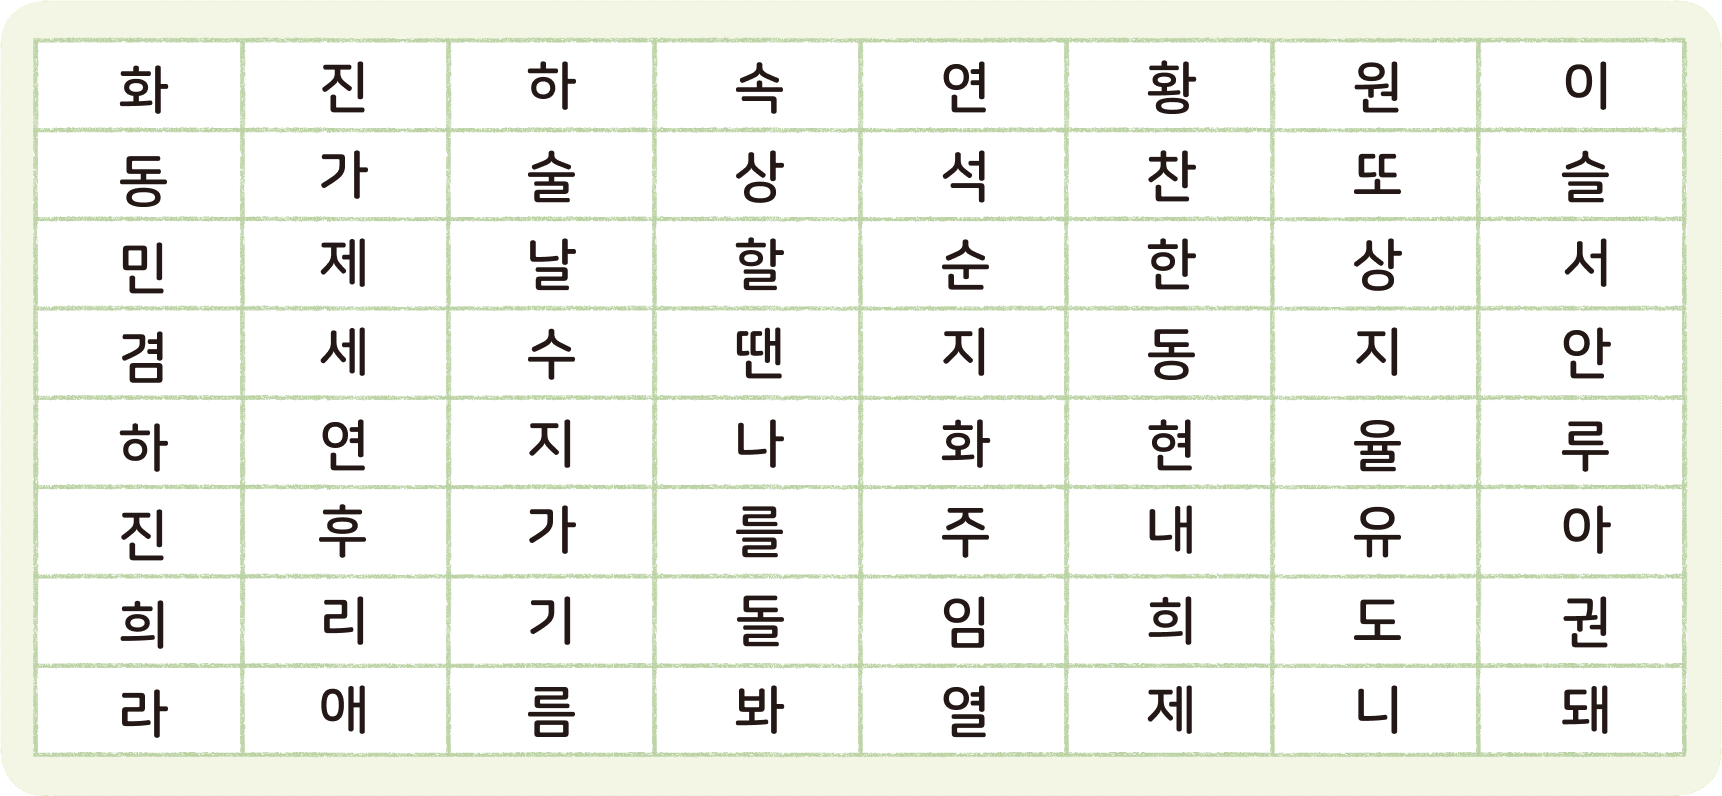
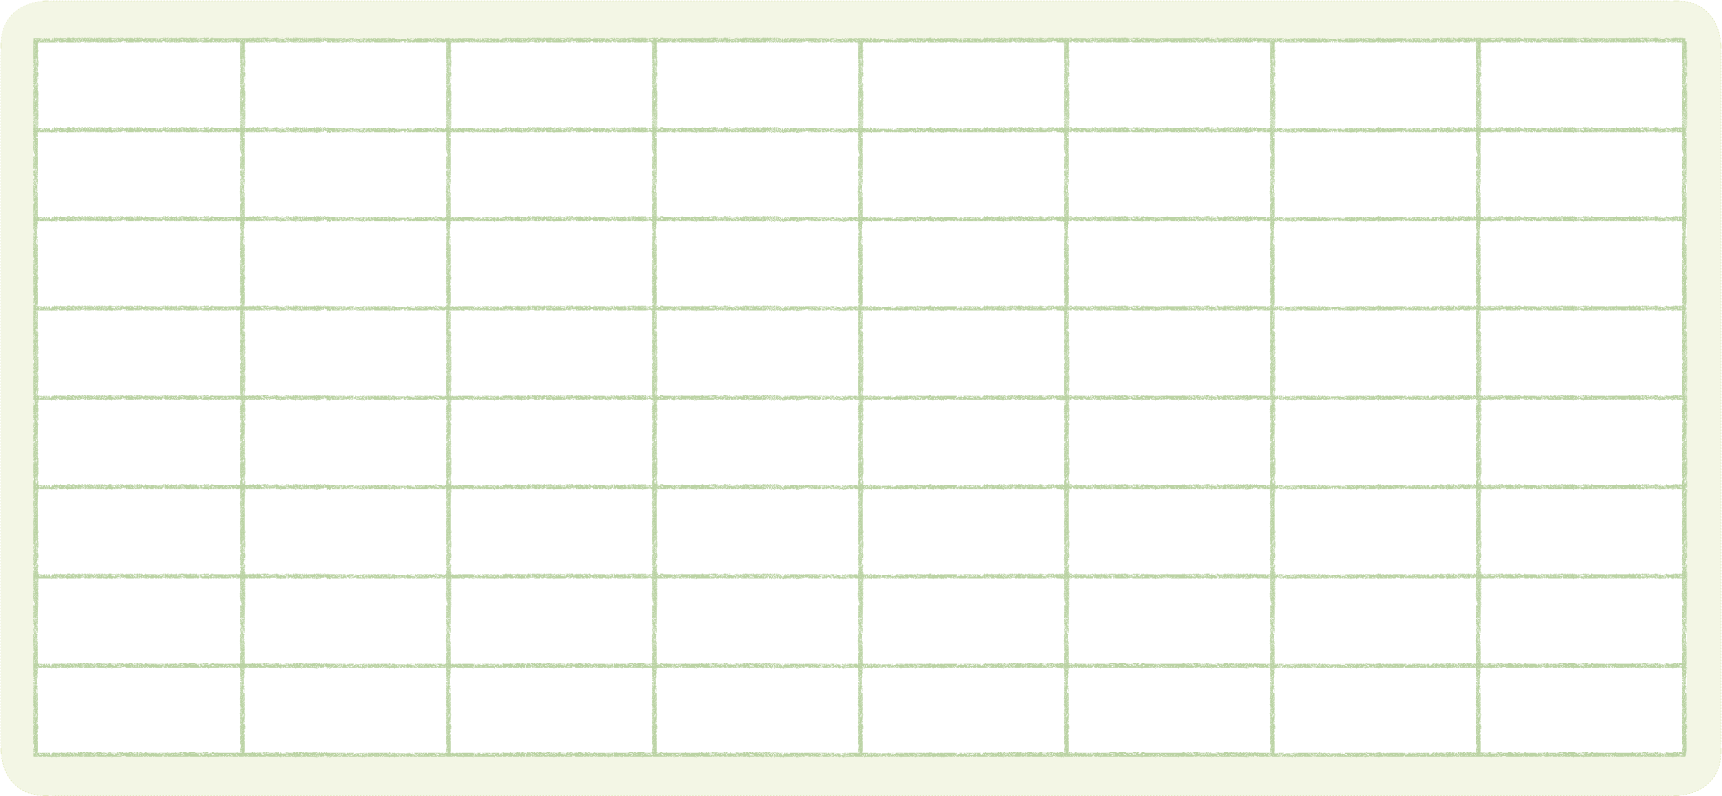
fix: 단어 드레그 수정

diff --git a/contents/html/popup-view/1-3-2/64-2/index.html b/contents/html/popup-view/1-3-2/64-2/index.html
@@ -51,7 +51,7 @@
 		}
 
 		#drawingSvg path {
-			stroke:transparent;
+			/*stroke: transparent;*/
 			stroke-width: 8;
 			stroke-linecap: round;
 			stroke-linejoin: round;
@@ -59,11 +59,73 @@
 			opacity: 0.6;
 		}
 
-		#answerArea,
-		#answerArea2,
-		#answerArea3 {
+		.answerArea {
 			display: none;
 		}
+
+		.list {
+			position: relative;
+			background-color: transparent;
+			border-collapse: revert;
+			padding: 40px 30px 30px;
+
+
+		}
+
+		.list li {
+			padding: 10px;
+			text-align: center;
+			background: none;
+			border: none;
+			width: 100%;
+			display: flex;
+		}
+
+		.list li div {
+			flex: 1;
+			height: 69px;
+		}
+
+		.list li span {
+			position: relative;
+			font-size: 56px;
+			font-weight: 700;
+			display: flex;
+			align-items: center;
+			text-align: center;
+			width: 100%;
+			z-index: 1;
+			border-radius: 80px;
+			width: 80px;
+			height: 80px;
+			margin: 0 auto;
+			cursor: pointer;
+		}
+
+		.list .text.on span {
+			cursor: pointer;
+			z-index: 10;
+		}
+/*
+		.list [data-id="1"].on span {
+			background-color: rgba(202, 232, 250, 0.5);
+		}
+
+		.list [data-id="2"].on span {
+			background-color: rgba(244, 209, 232, 0.5);
+		}
+
+		.list [data-id="3"].on span {
+			background-color: rgba(208, 209, 254, 0.5)
+		}
+
+		.list [data-id="1,3"].on span {
+			background-color: rgba(208, 209, 254, 0.5)
+		}
+
+		.list [data-id="2,3"].on span {
+			background-color: rgba(208, 209, 254, 0.5)
+		}*/
 	</style>
 </head>
 
@@ -79,128 +141,166 @@
 			</h2>
 		</header>
 		<section data-design="중단원 마무리 정리하기">
-
-
-			<div data-ui="w:1720 h:794 P:r" id="imgArea">
-				<img src="res/bg.png" alt="">
-
-				<svg id="drawingSvg" xmlns="http://www.w3.org/2000/svg"></svg>
-
-				<p id="answerArea" data-ui="P:a l:20 t:20">
+		
+			<div class="scroll" data-ui="h:560">
+					<div data-ui="w:1720 h:794 P:r ml:auto mr:auto" id="imgArea">
+				<ul class="list" data-ui="w:1720 h:794  BG:res/bg.png">
+					<li>
+						<div class="text" data-id="1"><span>화</span></div>
+						<div class="text" data-id=""><span>진</span></div>
+						<div class="text" data-id=""><span>하</span></div>
+						<div class="text" data-id="3"><span>속</span></div>
+						<div class="text" data-id=""><span>연</span></div>
+						<div class="text" data-id=""><span>황</span></div>
+						<div class="text" data-id=""><span>원</span></div>
+						<div class="text" data-id="2"><span>이</span></div>
+					</li>
+					<li>
+						<div class="text" data-id=""><span>동</span></div>
+						<div class="text" data-id="1"><span>가</span></div>
+						<div class="text" data-id=""><span>술</span></div>
+						<div class="text" data-id="3"><span>상</span></div>
+						<div class="text" data-id=""><span>석</span></div>
+						<div class="text" data-id=""><span>찬</span></div>
+						<div class="text" data-id="2"><span>또</span></div>
+						<div class="text" data-id=""><span>슬</span></div>
+					</li>
+					<li>
+						<div class="text" data-id=""><span>민</span></div>
+						<div class="text" data-id=""><span>제</span></div>
+						<div class="text" data-id="1"><span>날</span></div>
+						<div class="text" data-id="3"><span>할</span></div>
+						<div class="text" data-id=""><span>순</span></div>
+						<div class="text" data-id="2"><span>한</span></div>
+						<div class="text" data-id=""><span>상</span></div>
+						<div class="text" data-id=""><span>서</span></div>
+					</li>
+					<li>
+						<div class="text" data-id=""><span>겸</span></div>
+						<div class="text" data-id=""><span>세</span></div>
+						<div class="text" data-id=""><span>수</span></div>
+						<div class="text" data-id="1,3"><span>땐</span></div>
+						<div class="text" data-id="2"><span>지</span></div>
+						<div class="text" data-id=""><span>동</span></div>
+						<div class="text" data-id=""><span>지</span></div>
+						<div class="text" data-id=""><span>안</span></div>
+					</li>
+					<li>
+						<div class="text" data-id=""><span>하</span></div>
+						<div class="text" data-id=""><span>연</span></div>
+						<div class="text" data-id=""><span>지</span></div>
+						<div class="text" data-id="2,3"><span>나</span></div>
+						<div class="text" data-id="1"><span>화</span></div>
+						<div class="text" data-id=""><span>현</span></div>
+						<div class="text" data-id=""><span>율</span></div>
+						<div class="text" data-id=""><span>루</span></div>
+					</li>
+					<li>
+						<div class="text" data-id=""><span>진</span></div>
+						<div class="text" data-id=""><span>후</span></div>
+						<div class="text" data-id="2"><span>가</span></div>
+						<div class="text" data-id="3"><span>를</span></div>
+						<div class="text" data-id=""><span>주</span></div>
+						<div class="text" data-id="1"><span>내</span></div>
+						<div class="text" data-id=""><span>유</span></div>
+						<div class="text" data-id=""><span>아</span></div>
+					</li>
+					<li>
+						<div class="text" data-id=""><span>희</span></div>
+						<div class="text" data-id="2"><span>리</span></div>
+						<div class="text" data-id=""><span>기</span></div>
+						<div class="text" data-id="3"><span>돌</span></div>
+						<div class="text" data-id=""><span>임</span></div>
+						<div class="text" data-id=""><span>희</span></div>
+						<div class="text" data-id="1"><span>도</span></div>
+						<div class="text" data-id=""><span>권</span></div>
+					</li>
+					<li>
+						<div class="text" data-id="2"><span>라</span></div>
+						<div class="text" data-id=""><span>애</span></div>
+						<div class="text" data-id=""><span>름</span></div>
+						<div class="text" data-id="3"><span>봐</span></div>
+						<div class="text" data-id=""><span>열</span></div>
+						<div class="text" data-id=""><span>제</span></div>
+						<div class="text" data-id=""><span>니</span></div>
+						<div class="text" data-id="1"><span>돼</span></div>
+					</li>
+				</ul>
+				<p class="answerArea" data-id="1" data-ui="P:a l:20 t:20">
 					<svg xmlns="http://www.w3.org/2000/svg" width="1596" height="742" viewBox="0 0 1596 742" fill="none">
 						<path
 							d="M1561.56 635.238C1589.65 647.165 1602.77 679.619 1590.84 707.715C1578.92 735.822 1546.46 748.929 1518.36 737.002L34.5179 107.147C6.42209 95.2198 -6.69568 62.7656 5.23149 34.6698C17.1587 6.57393 49.6129 -6.54382 77.7087 5.38335L1561.56 635.238Z"
 							fill="#CAE8FA" fill-opacity="0.8" />
 					</svg>
 				</p>
-				<p id="answerArea3" data-ui="P:a l:700 t:40">
-					<svg xmlns="http://www.w3.org/2000/svg" width="111" height="715" viewBox="0 0 111 715" fill="none">
-						<path
-							d="M0.428223 659.095C0.428223 689.625 25.1755 714.373 55.7057 714.373C86.2358 714.373 110.983 689.625 110.983 659.095V56.0821C110.983 25.552 86.2358 0.804688 55.7057 0.804688C25.1755 0.804688 0.428223 25.552 0.428223 56.0821V659.095Z"
-							fill="#D0D1FE" fill-opacity="0.8" />
-					</svg>
-				</p>
-				<p id="answerArea2" data-ui="P:a l:60 t:20">
+				<p class="answerArea" data-id="2" data-ui="P:a l:60 t:20">
 					<svg xmlns="http://www.w3.org/2000/svg" width="1596" height="741" viewBox="0 0 1596 741" fill="none">
 						<path
 							d="M34.4012 634.326C6.30539 646.253 -6.81238 678.707 5.11479 706.803C17.042 734.909 49.4962 748.017 77.592 736.089L1561.43 106.235C1589.53 94.3077 1602.64 61.8535 1590.72 33.7577C1578.79 5.66185 1546.33 -7.45593 1518.24 4.47124L34.4012 634.326Z"
 							fill="#F4D1E8" fill-opacity="0.8" />
 					</svg>
 				</p>
+				<p class="answerArea" data-id="3" data-ui="P:a l:700 t:40">
+					<svg xmlns="http://www.w3.org/2000/svg" width="111" height="715" viewBox="0 0 111 715" fill="none">
+						<path
+							d="M0.428223 659.095C0.428223 689.625 25.1755 714.373 55.7057 714.373C86.2358 714.373 110.983 689.625 110.983 659.095V56.0821C110.983 25.552 86.2358 0.804688 55.7057 0.804688C25.1755 0.804688 0.428223 25.552 0.428223 56.0821V659.095Z"
+							fill="#D0D1FE" fill-opacity="0.8" />
+					</svg>
+				</p>
 			</div>
-
-
+			</div>
 			<script>
-				$(function () {
-					const $svg = $('#drawingSvg');
-					const svg = $svg[0];
+		$(function () {
+    var dragIds = [];
+    var isDragging = false;
 
-					let isDrawing = false;
-					let currentPath = null;
-					let pathData = '';
+    $('#imgArea ul .text').on('mousedown', function () {
+        dragIds = [];
+        isDragging = true;
+        $(this).addClass('on');
+    });
 
-					// 좌표 변환
-					function getRelativeCoords(evt) {
-						const rect = svg.getBoundingClientRect();
-						return {
-							x: evt.clientX - rect.left,
-							y: evt.clientY - rect.top
-						};
-					}
+    $('#imgArea ul .text').on('mouseenter', function () {
+        if (!isDragging) return;
 
-					// 정답 영역 좌표 (id, left, top, width, height)
-					const answerAreas = [
-						{ id: '#answerArea', left: 20, top: 20, width: 800, height: 100 },
-						{ id: '#answerArea2', left: 60, top: 20, width: 800, height: 100 },
-						{ id: '#answerArea3', left: 700, top: 40, width: 111, height: 715 }
-					];
+        var dataIds = $(this).data('id');
+        if (dataIds) {
+            var idsArray = dataIds.toString().split(',');
+            for (var i = 0; i < idsArray.length; i++) {
+                var id = $.trim(idsArray[i]); // trim IE8부터 jQuery가 제공
+                if (id) dragIds.push(id);
+            }
+        }
 
-					// 충돌 체크
-					function isOverlap(rect1, rect2) {
-						return !(
-							rect1.left > rect2.left + rect2.width ||
-							rect1.left + rect1.width < rect2.left ||
-							rect1.top > rect2.top + rect2.height ||
-							rect1.top + rect1.height < rect2.top
-						);
-					}
+        $(this).addClass('on'); // 지나갈 때마다 on 클래스 추가
+    });
 
-					let dragStart = null;
+    $(document).on('mouseup', function () {
+        if (!isDragging) return;
+        isDragging = false;
 
-					$('#imgArea').on('mousedown', function (e) {
-						isDrawing = true;
+        // 드래그가 끝나면 on 클래스 초기화
+        $('#imgArea ul .text').removeClass('on');
 
-						const { x, y } = getRelativeCoords(e.originalEvent);
-						pathData = `M ${x} ${y}`;
+        var counts = {};
 
-						currentPath = document.createElementNS("http://www.w3.org/2000/svg", "path");
-						currentPath.setAttribute("d", pathData);
-						currentPath.setAttribute("stroke", "#ffea00");
-						currentPath.setAttribute("stroke-width", "8");
-						currentPath.setAttribute("stroke-linecap", "round");
-						currentPath.setAttribute("stroke-linejoin", "round");
-						currentPath.setAttribute("fill", "none");
-						currentPath.setAttribute("opacity", "0.6");
-						svg.appendChild(currentPath);
+        for (var i = 0; i < dragIds.length; i++) {
+            var id = dragIds[i];
+            if (!counts[id]) {
+                counts[id] = 1;
+            } else {
+                counts[id]++;
+            }
+        }
 
-						dragStart = { x: e.offsetX, y: e.offsetY };
-					});
+        $.each(counts, function (id, count) {
+            if (count >= 3) {
+                $('.answerArea[data-id="' + id + '"]').show();
+            }
+        });
+    });
+});
 
-					$('#imgArea').on('mousemove', function (e) {
-						if (!isDrawing) return;
-						const { x, y } = getRelativeCoords(e.originalEvent);
-						pathData += ` L ${x} ${y}`;
-						currentPath.setAttribute("d", pathData);
-					});
-
-					$(document).on('mouseup', function (e) {
-						if (!isDrawing) return;
-						isDrawing = false;
-						currentPath = null;
-						pathData = '';
-
-						const dragEnd = { x: e.offsetX, y: e.offsetY };
-
-						const dragRect = {
-							left: Math.min(dragStart.x, dragEnd.x),
-							top: Math.min(dragStart.y, dragEnd.y),
-							width: Math.abs(dragStart.x - dragEnd.x),
-							height: Math.abs(dragStart.y - dragEnd.y)
-						};
-
-						let matched = false;
-
-						answerAreas.forEach(area => {
-							if (!matched && isOverlap(dragRect, area)) {
-								// 처음 겹친 영역만 표시
-								$(area.id).show();
-								matched = true;
-							} else {
-								$(area.id).hide();
-							}
-						});
-					});
-				});
 
 			</script>
 		</section>
